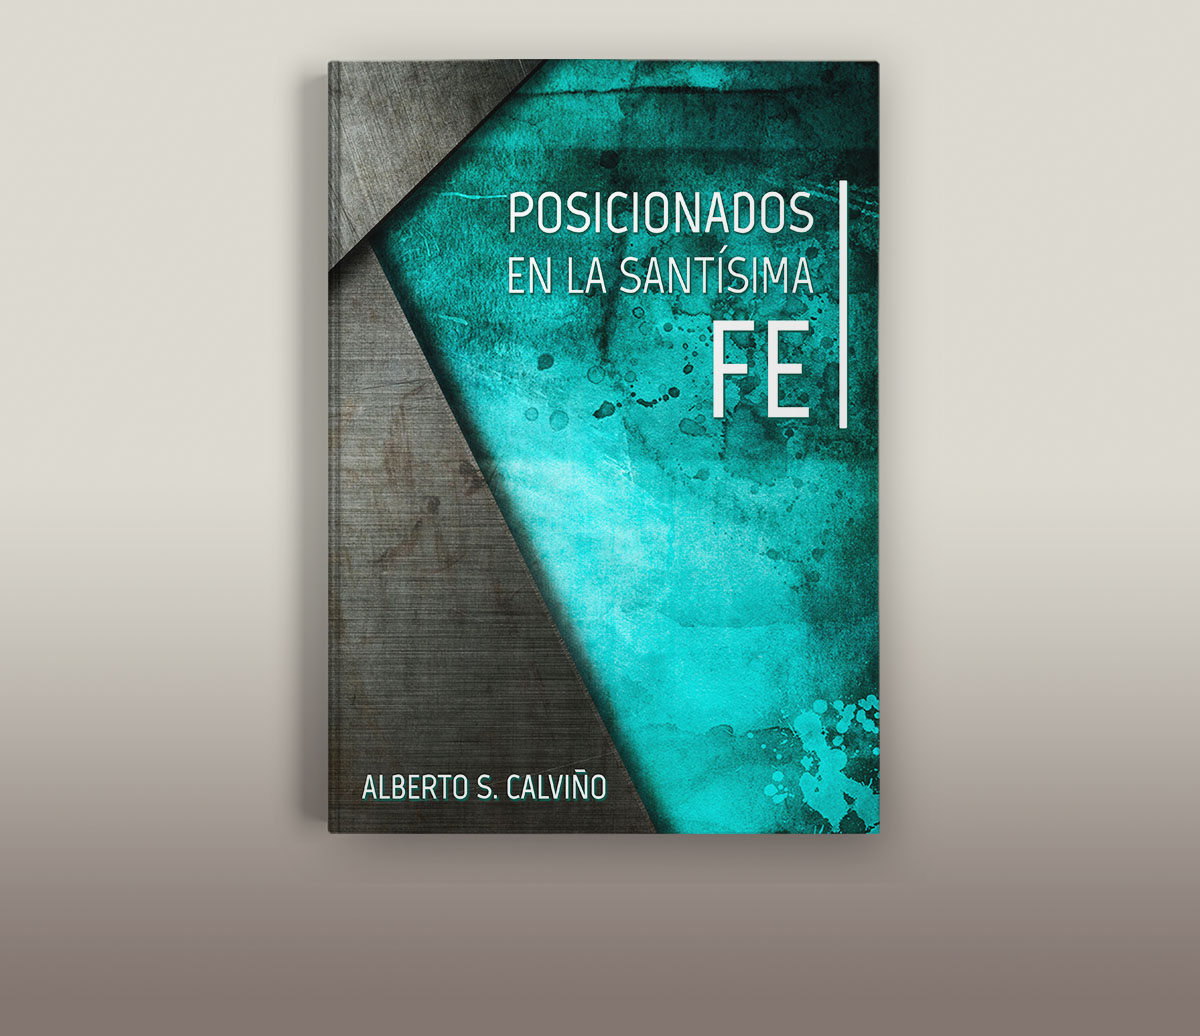
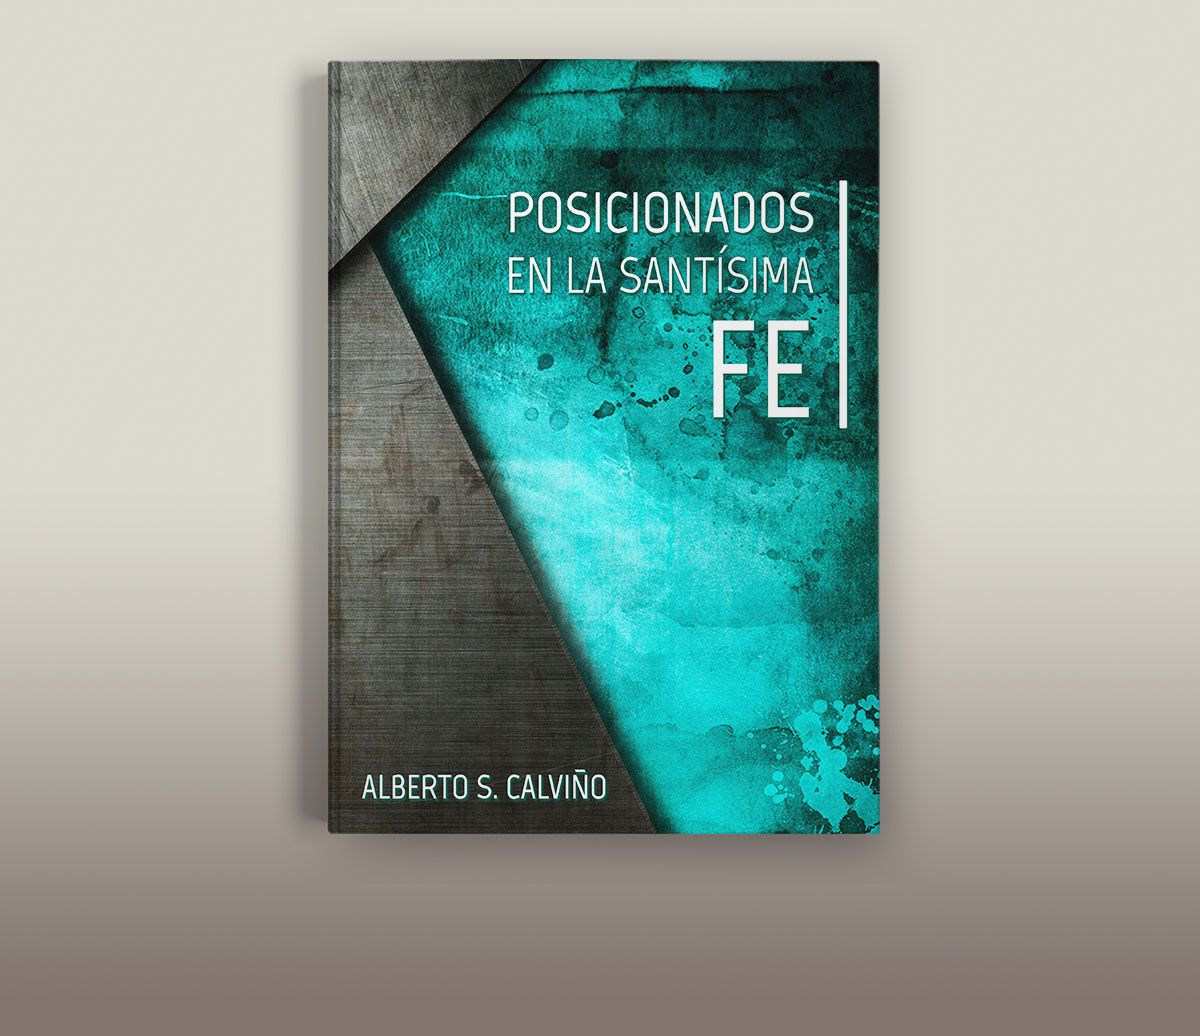
perf: optimize images and fix course image paths
- Convert oversized PNG artwork to WebP (CNTN, Encuentro, Familia, EDMI,
  Webinar) and resize to display size: 5.7 MB -> 31 KB for the largest
- Recompress JPGs at quality 80, progressive, max 1600 px
- Fix case-sensitive paths in config.js (webinar.png / edmi.png did not
  match Webinar.png / EDMI.png, which breaks on GitHub Pages)
- Remove stray macOS alias file (assets/images/iMovie)

Total image weight: 17.8 MB -> 2.6 MB

Claude-Session: https://claude.ai/code/session_01VrLNuPhttK24VtD4DYFcJZ

Changed region(s): [[0.7092, 0.6795, 0.74, 0.7104], [0.555, 0.2471, 0.5858, 0.278], [0.4008, 0.2471, 0.4317, 0.278]]

diff --git a/config.js b/config.js
@@ -19,9 +19,9 @@ window.RED_CONFIG = {
 
   courses: {
     webinarForm: "https://www.instagram.com/webinar_redformando/",
-    webinarImage: "assets/images/webinar.png",
+    webinarImage: "assets/images/Webinar.webp",
     edmiForm: "https://www.instagram.com/edm.internacional/",
-    edmiImage: "assets/images/edmi.png",
+    edmiImage: "assets/images/EDMI.webp",
   },
 
   checkout: {
@@ -37,7 +37,7 @@ window.RED_CONFIG = {
 
   bienal: {
     verMasLink: "#bienal-detalle",
-    imageUrl: "assets/images/CNTN.png",
+    imageUrl: "assets/images/CNTN.webp",
     videoUrl:
       "https://youtube.com/watch?v=ltjMOEm246s&embeds_referring_euri=https%3A%2F%2Fwww.redformando.com%2F&source_ve_path=Mjg2NjY",
     pdfUrl: "#",
@@ -48,7 +48,7 @@ window.RED_CONFIG = {
     items: [
       {
         note: "Encuentro RedFormando 2026",
-        image: "assets/images/Encuentro RedFormando.png",
+        image: "assets/images/Encuentro RedFormando.webp",
         alt: "Banner Encuentro RedFormando",
         ctaLabel: "Reservá tu lugar",
         ctaLink: "#inscripcion-evento",

diff --git a/index.html b/index.html
@@ -145,7 +145,7 @@
             <div class="img-placeholder">
               <img
                 id="evento-inscripcion-img"
-                src="assets/images/Encuentro RedFormando.png"
+                src="assets/images/Encuentro RedFormando.webp"
                 alt="Imagen evento inscripción"
                 class="evento-inscripcion-img"
               />

diff --git a/familia.html b/familia.html
@@ -278,7 +278,7 @@
 
               <div class="family-photo-frame" aria-label="Imagen de Familia">
                 <img
-                  src="assets/images/Familia.png"
+                  src="assets/images/Familia.webp"
                   alt="Familia Redformando"
                 />
               </div>
